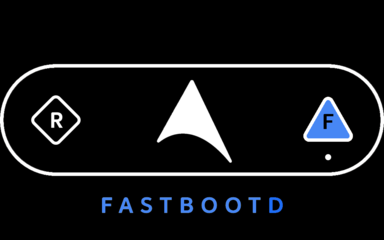
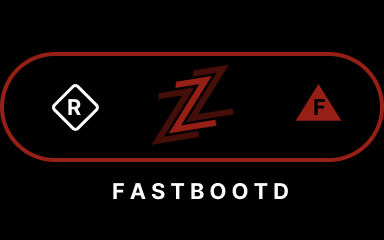
recovery: Rebrand for zephyrus

Changed region(s): [[0.0, 0.2042, 1.0, 0.9042], [0.0625, 0.35, 0.2812, 0.6125]]

diff --git a/recovery.cpp b/recovery.cpp
@@ -911,14 +911,14 @@ Device::BuiltinAction start_recovery(Device* device, const std::vector<std::stri
 
   // Extract the YYYYMMDD / YYYYMMDD_HHMMSS timestamp from the full version string.
   // Assume the first instance of "-[0-9]{8}-", or "-[0-9]{8}_[0-9]{6}-" in case
-  // ARROW_VERSION_APPEND_TIME_OF_DAY is set to true has the desired date.
-  std::string ver = android::base::GetProperty("ro.arrow.version", "");
+  // ZEPHYRUS_VERSION_APPEND_TIME_OF_DAY is set to true has the desired date.
+  std::string ver = android::base::GetProperty("ro.zeph.version", "");
   std::smatch ver_date_match;
   std::regex_search(ver, ver_date_match, std::regex("-(\\d{8}(_\\d{6})?)-"));
   std::string ver_date = ver_date_match.str(1);  // Empty if no match.
 
   std::vector<std::string> title_lines = {
-    "Version: " + android::base::GetProperty("ro.arrow.display.version", "(unknown)") +
+    "Version: " + android::base::GetProperty("ro.zeph.display.version", "(unknown)") +
         "-" + ver_date,
   };
   if (android::base::GetBoolProperty("ro.build.ab_update", false)) {

diff --git a/recovery_ui/screen_ui.cpp b/recovery_ui/screen_ui.cpp
@@ -574,17 +574,17 @@ void ScreenRecoveryUI::SetColor(UIElement e) const {
       gr_color(255, 255, 255, 255);
       break;
     case UIElement::HEADER:
-      gr_color(0, 95, 154, 255);
+      gr_color(0, 150, 31, 22);
       break;
     case UIElement::MENU:
       gr_color(0xd8, 0xd8, 0xd8, 255);
       break;
     case UIElement::MENU_SEL_BG:
     case UIElement::SCROLLBAR:
-      gr_color(0, 95, 154, 255);
+      gr_color(0, 150, 31, 22);
       break;
     case UIElement::MENU_SEL_BG_ACTIVE:
-      gr_color(0, 95, 154, 255);
+      gr_color(0, 150, 31, 22);
       break;
     case UIElement::MENU_SEL_FG:
       gr_color(0xd8, 0xd8, 0xd8, 255);

diff --git a/recovery_ui/include/recovery_ui/screen_ui.h b/recovery_ui/include/recovery_ui/screen_ui.h
@@ -149,7 +149,7 @@ class TextMenu : public Menu {
   size_t MenuEnd() const;
 
   // Menu example:
-  // info:                           Arrow Recovery
+  // info:                           Zephyrus Recovery
   //                                 ....
   // help messages:                  Swipe up/down to move
   //                                 Swipe left/right to select
